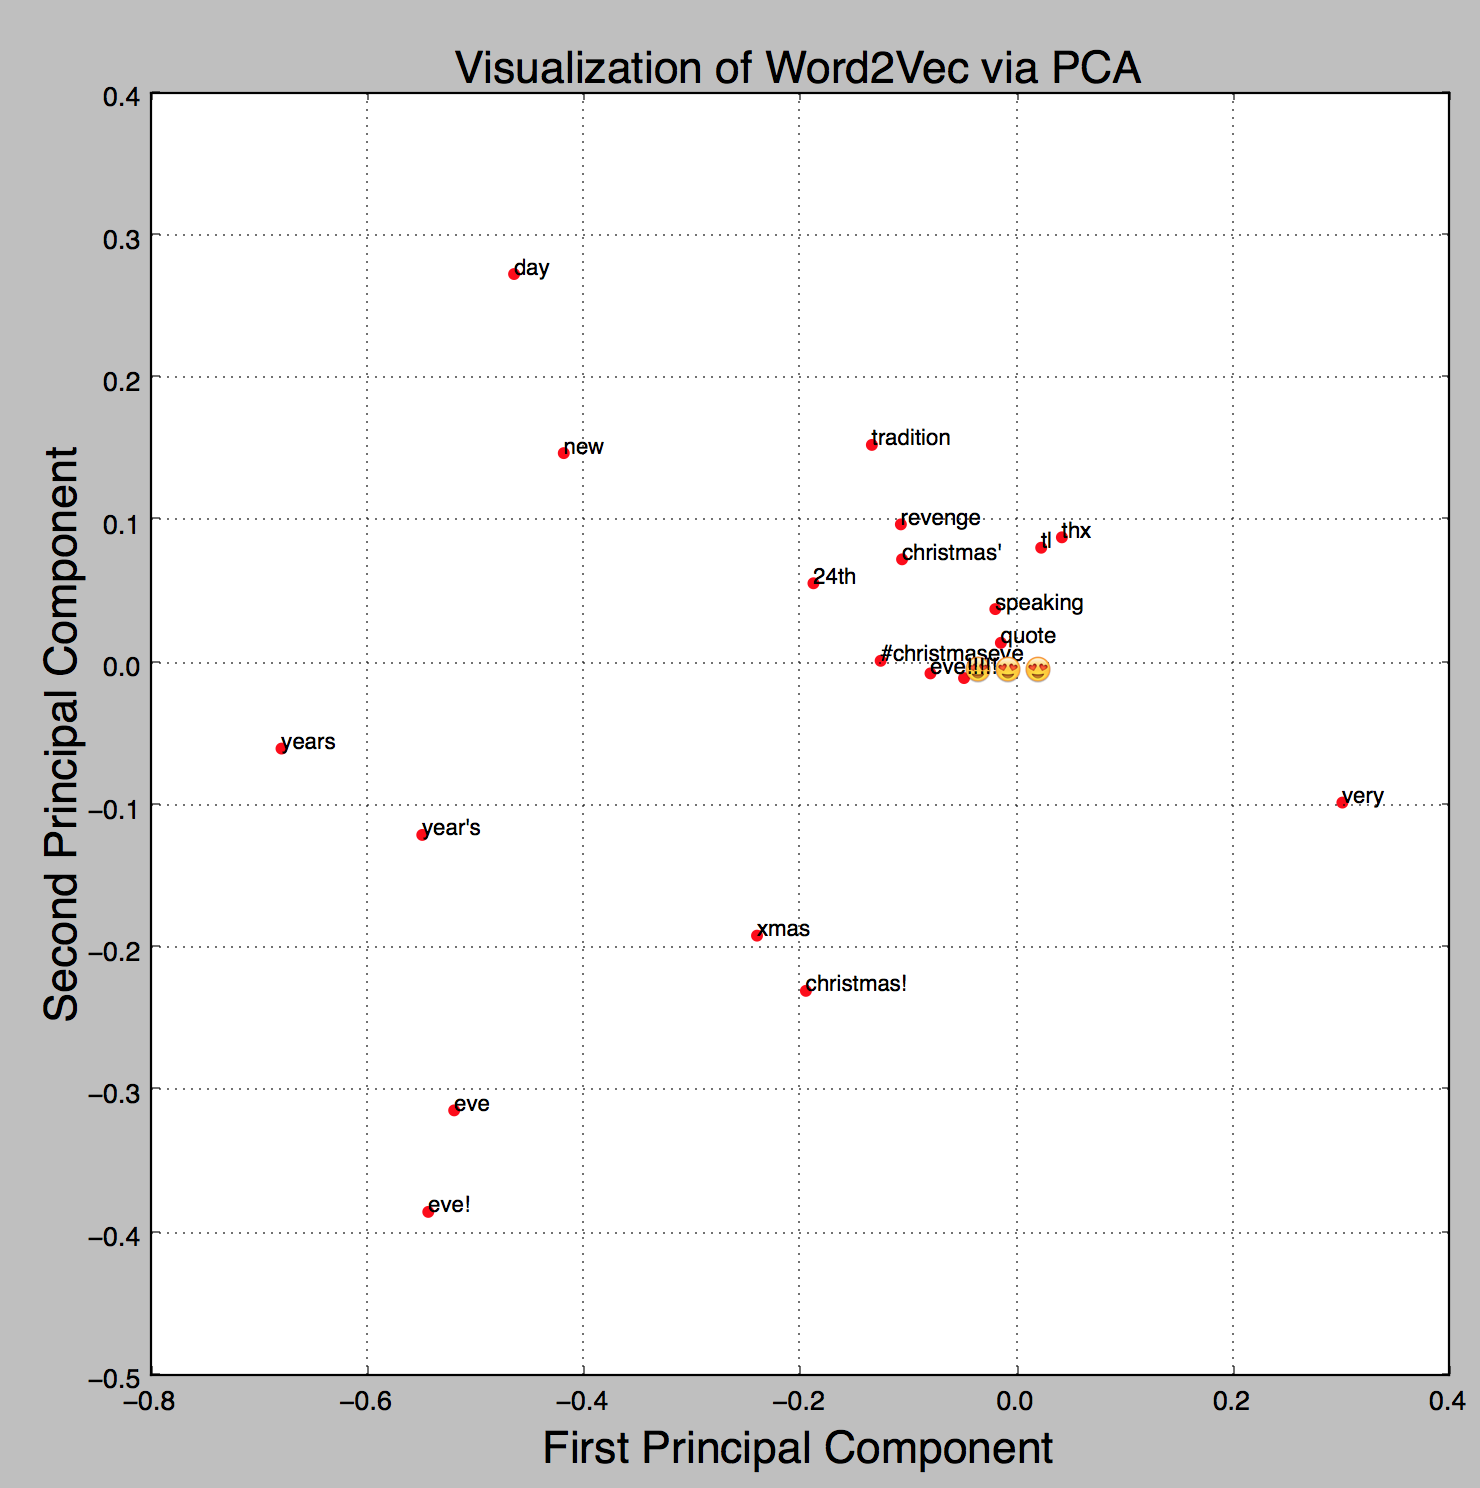
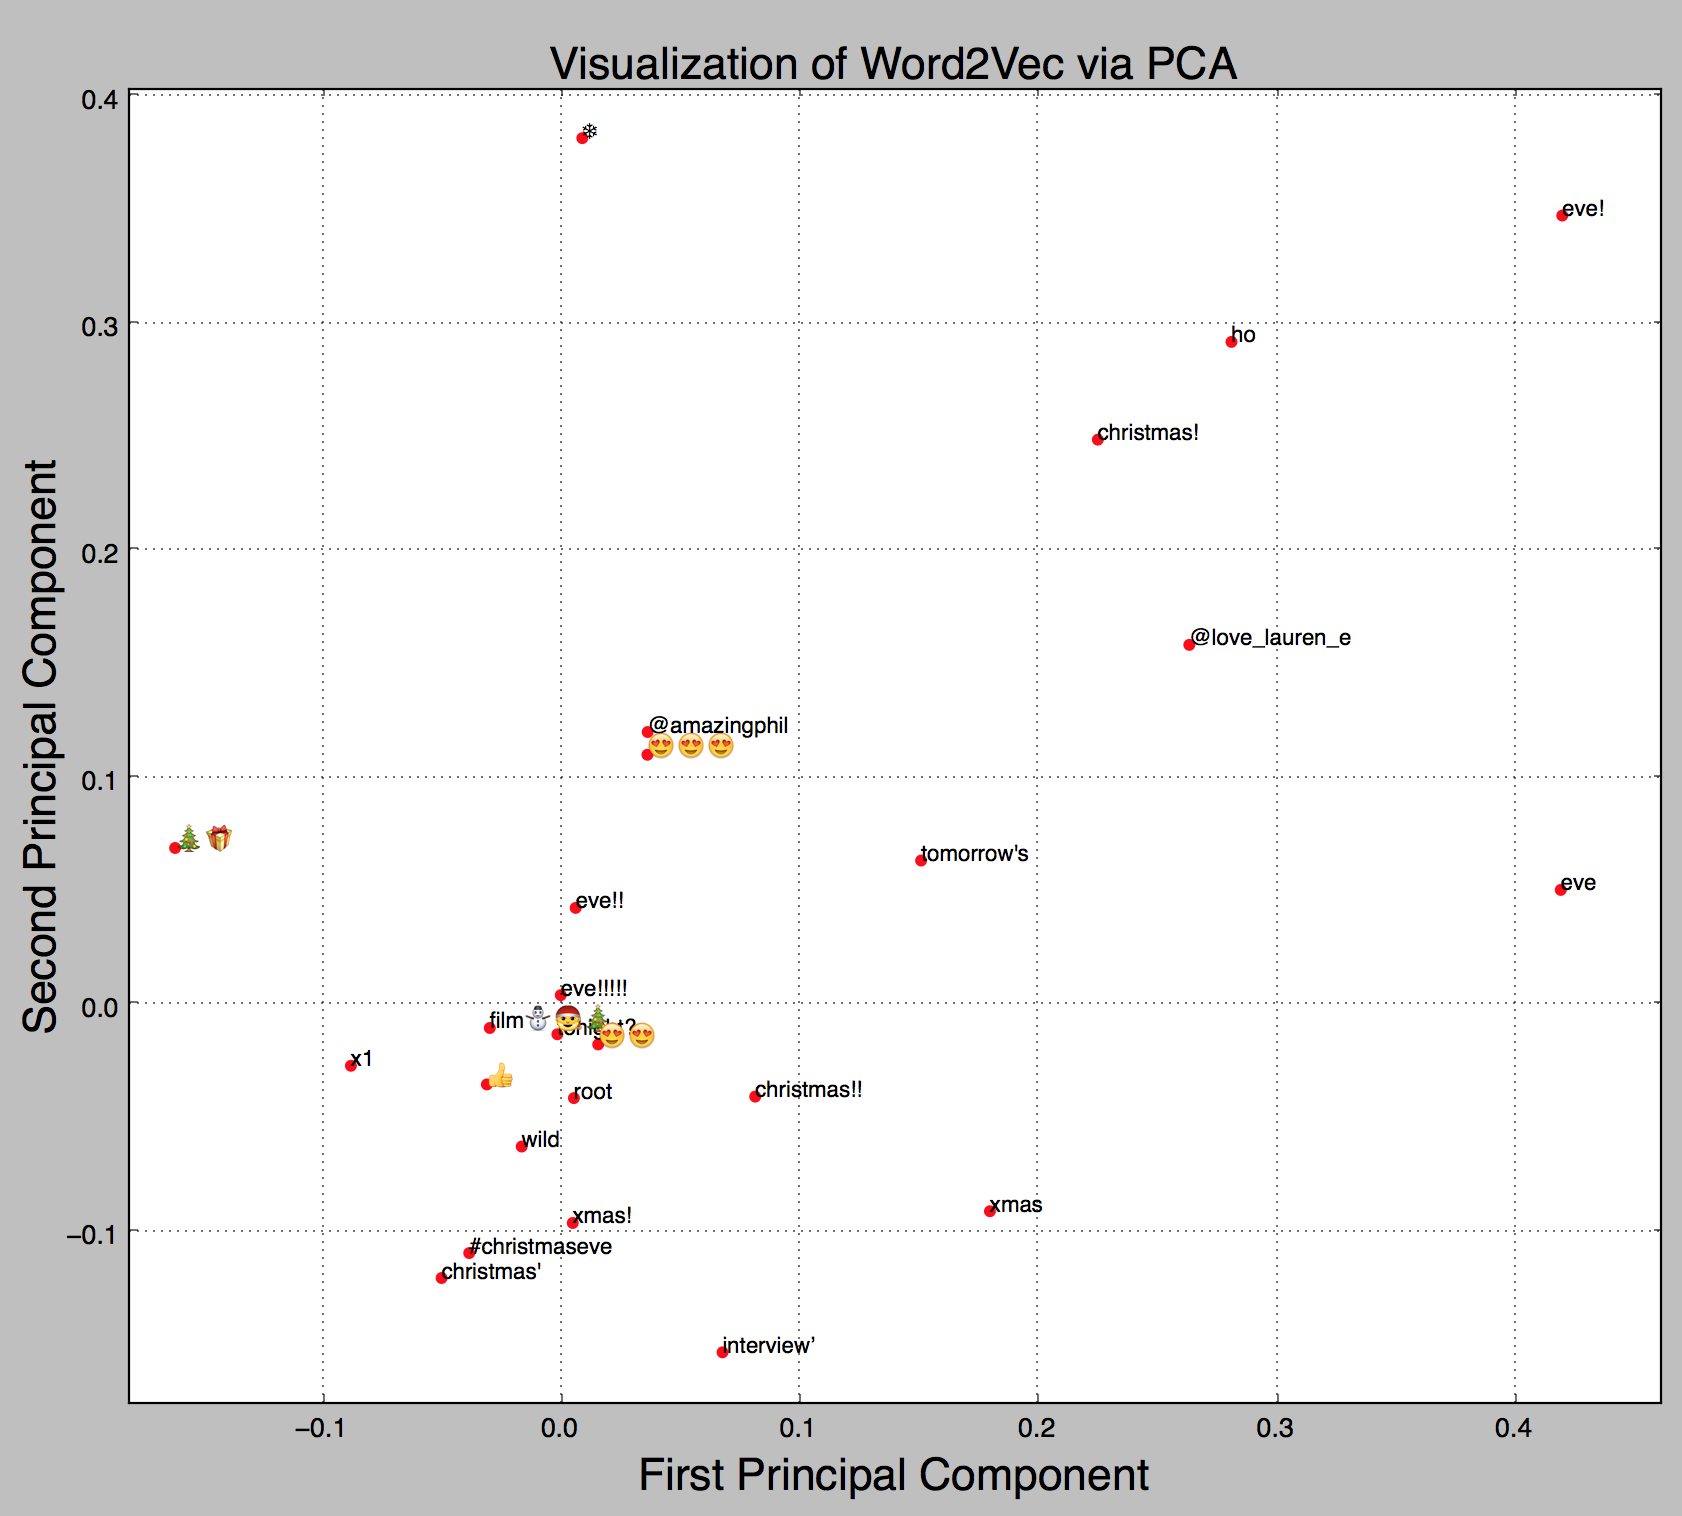
changed visualization of w2v with pca, edit filter.txt to include more christmas terms.

diff --git a/visualize-words.py b/visualize-words.py
@@ -49,7 +49,7 @@ pca = PCA(k=numComponents, inputCol="features", outputCol="pcaFeatures")
 model = pca.fit(dfFeat)
 dfComp = model.transform(dfFeat).select("pcaFeatures")
 # get the first two components to lists to be plotted
-maxWordsVis = 20
+maxWordsVis = 30
 compX = dfComp.map(lambda vec: vec[0][0]).take(maxWordsVis)
 compY = dfComp.map(lambda vec: vec[0][1]).take(maxWordsVis)
 
